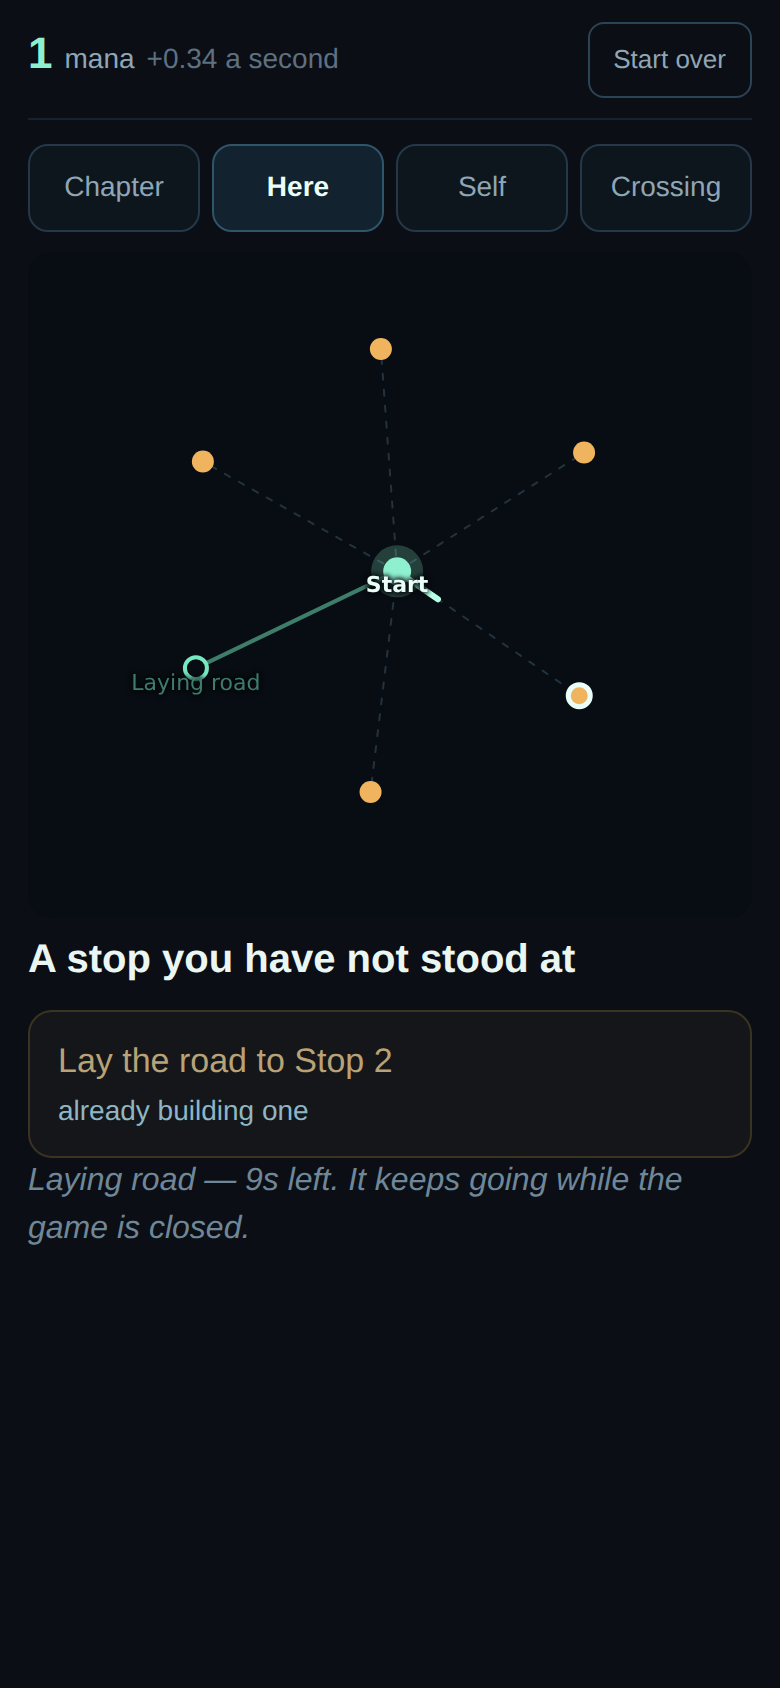
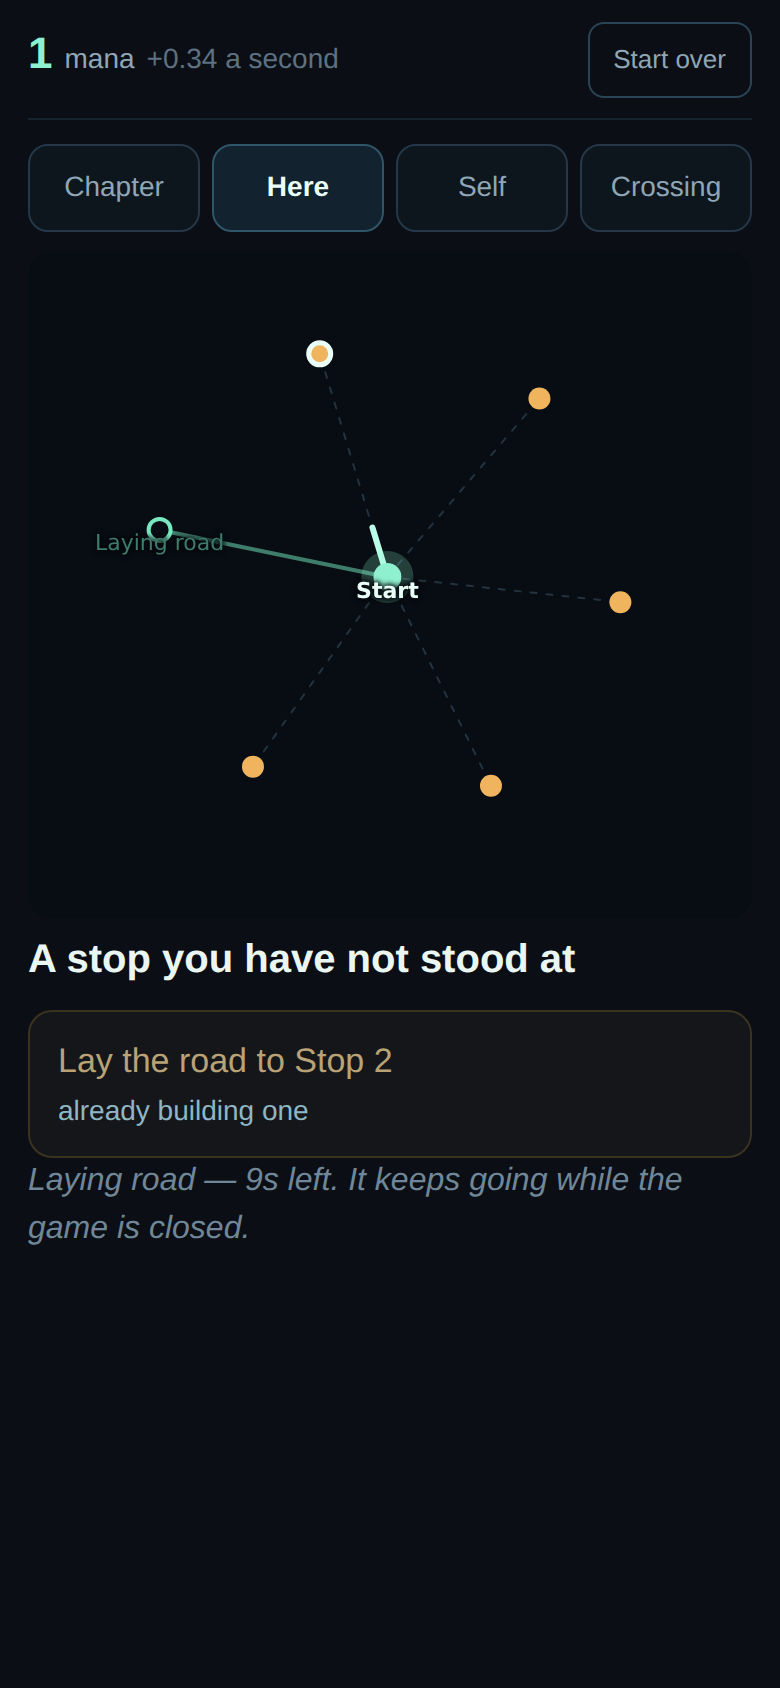
Draw the chapter where stops.ts writes it
`layout.ts` handed the chapter to d3-force like any other tab, throwing away the
coordinates `stops.ts` had just authored. Two things followed:

  THE CROSSING DID NOT READ AS A CROSSING. Five routes are authored bowing
  between a start on the left and a finish on the right. Force-solved, the
  Finish landed in the MIDDLE of the board — so the one decision a chapter
  offers was invisible in the one picture that exists to show it.

  ★ AND THE GROUND UNDER A STOP WAS NOT ITS GROUND. `terrain.ts` bakes scenery
  from each stop's authored x/y; the stops were drawn at force coordinates. A
  stop painted on wood was priced by `GOING` as water. That is the map lying,
  which is worse than the map being ugly, and it is the exact "the map is
  decoration" failure this redesign exists to end.

511 tests missed it because every one of them asked the SOLVER where things
were, and the solver was self-consistent.

The other tabs are still solved — they are filters with no geography of their
own, and `solve()` still seeds them from these positions so a room looks like
where it is.

---- WHAT IT COST ----------------------------------------------------------

Nothing, as it turns out. The authored map clears every existing guard without
adjustment:

  closest authored pair  41.1 units (Stop 16 / Stop 21) against a limit of 24
  neighbours avg 141.6   strangers avg 323.7   (edges still shorten the layout)
  start x=70, finish x=830
[…]

diff --git a/src/game/layout.ts b/src/game/layout.ts
@@ -1,4 +1,5 @@
-// WHERE EVERY NODE SITS. Solved by d3-force, run to completion, then FROZEN.
+// WHERE EVERY NODE SITS. The chapter is AUTHORED; every other tab is solved by
+// d3-force, run to completion, then FROZEN.
 //
 // ⚠ THIS REPLACES A HAND-ROLLED RELAXATION, AT THE OWNER'S REQUEST, 2026-08-01.
 // After playing: *"the graph, as far as I understand, it is now just statically
@@ -108,20 +109,36 @@ export function boxOf(spots: Placed[], pad = 40): Box {
   return { x: minX, y: minY, w: maxX - minX, h: maxY - minY };
 }
 
-// ---- THE JOURNEY ---------------------------------------------------------
-// Its shape never changes, so it is solved once at module load and is a
-// constant for the rest of the session.
-
-const journeyPos = settle(
-  STOPS.map((p) => stopId(p.id)),
-  STOPS.flatMap((p) => p.near.filter((to) => to > p.id)
-    .map((to) => ({ source: stopId(p.id), target: stopId(to) }))),
-  0x5eed,
-);
-
-export const SPOTS: readonly Spot[] = STOPS.map((p) => ({
-  id: p.id, ...journeyPos.get(stopId(p.id))!,
-}));
+// ---- THE CHAPTER ---------------------------------------------------------
+//
+// ★★ THE CHAPTER IS NOT SOLVED. IT IS AUTHORED, AND THE BOARD DRAWS IT WHERE IT
+// IS WRITTEN.
+//
+// ⚠ WHAT THIS REPLACED, AND WHY IT WAS A REAL BUG RATHER THAN AN UGLY PICTURE.
+// This used to hand the chapter to `settle()` like any other tab, throwing away
+// the coordinates `stops.ts` had just authored and re-solving from a seed. Two
+// things followed, and the second is the serious one:
+//
+//   THE CROSSING STOPPED READING AS A CROSSING. `stops.ts` bows five routes
+//   between a start on the left and a finish on the right. Force-solved, the
+//   Finish landed in the MIDDLE of the board and the five ways did not read as
+//   five ways — so the one decision a chapter offers was invisible in the one
+//   picture that exists to show it.
+//
+//   ★ AND THE GROUND UNDER A STOP WAS NOT ITS GROUND. `terrain.ts` bakes
+//   scenery from each stop's authored `x`/`y`. The stops were drawn at force
+//   coordinates. So a stop painted on wood was priced by `GOING` as water, and
+//   the map was decoration wearing the costume of information — which is the
+//   exact failure this whole redesign exists to end.
+//
+// No test caught it for a session, because every test asked the SOLVER where
+// things were and the solver was self-consistent. `test/layout.test.ts` now
+// asks `stops.ts` instead.
+//
+// The other tabs are still solved: they are filters with no geography of their
+// own, and `solve()` seeds them from these positions so a room still looks like
+// where it is.
+export const SPOTS: readonly Spot[] = STOPS.map((p) => ({ id: p.id, x: p.x, y: p.y }));
 export const SPOT = new Map(SPOTS.map((s) => [s.id, s]));
 export const VIEW: Box = boxOf(SPOTS.map((s) => ({ id: stopId(s.id), x: s.x, y: s.y })));
 

diff --git a/test/layout.test.ts b/test/layout.test.ts
@@ -28,6 +28,37 @@ describe('the map layout', () => {
     expect(worst, `closest pair ${pair} at ${worst.toFixed(1)} units`).toBeGreaterThan(24);
   });
 
+  it('★★ draws every stop where stops.ts puts it, not where a solver prefers', () => {
+    // ⚠ THE ONE THAT WAS MISSING FOR A SESSION, and the reason a bug survived
+    // 509 green tests. The chapter used to be force-solved, which threw the
+    // authored coordinates away. Every test still passed, because every test
+    // asked the SOLVER where things were and the solver agreed with itself.
+    //
+    // ★ WHAT IT ACTUALLY COSTS TO GET THIS WRONG: `terrain.ts` bakes the ground
+    // from each stop's authored x/y. If the stop is DRAWN somewhere else, the
+    // ground it sits on is not the ground `GOING` charges for — a stop painted
+    // on wood priced as water. That is the map lying, which is worse than the
+    // map being ugly, and it is what this compares against.
+    for (const p of PLACES) {
+      const at = SPOT.get(p.id)!;
+      expect(at.x, `${p.name} is drawn at x=${at.x} but authored at ${p.x}`).toBe(p.x);
+      expect(at.y, `${p.name} is drawn at y=${at.y} but authored at ${p.y}`).toBe(p.y);
+    }
+  });
+
+  it('★ and the crossing reads left to right', () => {
+    // A chapter is a crossing: you start at one end and you are trying to reach
+    // the other. If the finish is not the far side of the picture, the shape of
+    // the thing is not on screen — which is how the force-solved board drew the
+    // Finish in the middle and nobody could see what the goal was.
+    const start = SPOT.get(0)!, finish = SPOT.get(1)!;
+    expect(start.x, 'the start is not the leftmost stop')
+      .toBe(Math.min(...SPOTS.map((s) => s.x)));
+    expect(finish.x, 'the finish is not the rightmost stop')
+      .toBe(Math.max(...SPOTS.map((s) => s.x)));
+    expect(finish.x - start.x).toBeGreaterThan(400);
+  });
+
   it('fits every place inside the viewBox', () => {
     for (const s of SPOTS) {
       expect(s.x, `${s.id}`).toBeGreaterThanOrEqual(VIEW.x);

diff --git a/docs/NEXT.md b/docs/NEXT.md
@@ -20,29 +20,40 @@ mana, roads, a crossing. The word gate is green because the strings went with
 the code. `npm run play` builds a road end to end in a browser and the refusal
 "no mana reaches here" reaches the screen with 9999 mana in hand.
 
-### ★ THE FIRST ITEM OF THE NEXT SESSION — the map is not the map
+## ✅ DONE 2026-08-02 — the chapter is drawn where it is written
 
-**`layout.ts` throws the chapter's geography away, and the screenshot shows it.**
-`stops.ts` authors five routes bowing between a start on the left and a finish
-on the right; `settle()` ignores those coordinates entirely and re-solves the
-whole thing with d3-force from a seed. On screen the Finish sits in the MIDDLE
-of the board and the five ways across do not read as five ways across.
+`layout.ts` no longer force-solves the chapter. The authored positions cleared
+every existing guard untouched (closest pair 41.1 units against a limit of 24),
+so `stops.ts` needed no adjustment. Two new guards, both proven red by putting
+the solver back: the drawn position must EQUAL the authored one, and the finish
+must be the rightmost stop. The screenshot now reads start-left, finish-right,
+five ways between, with the river running along the water route `GOING` charges
+3.1 for.
 
-⚠ **And the terrain is worse than cosmetic.** `terrain.ts` bakes scenery from
-each stop's authored `x`/`y`, but the stops are drawn at force coordinates — so
-the ground a stop is painted on is not the ground that prices the road out of
-it. That is precisely the "the map is decoration" failure this whole redesign
-exists to end, and no test catches it because every test asks the solver where
-things are.
+### ★ THE FIRST ITEM OF THE NEXT SESSION — answer open question 1
 
-The fix is to use the authored positions for the chapter. It is not a one-liner:
-`test/layout.test.ts` asserts no two stops come within 24 units and that the
-solver is deterministic, and the authored bows may violate the first. Expect to
-adjust the layout in `stops.ts` until it passes rather than loosening the check.
+**What is a stop made of?** It is the first of the five open questions in
+`docs/KINGS_ROADS.md` and it is the owner's to answer, not an agent's. Every
+stop currently says `Stop 14` and reports its ground, because the 37
+machine-written places were scrapped for exactly the reason that an assistant
+answered this question once already.
 
-**Done when:** the Chapter screenshot reads left-to-right as a start, a finish
-and five distinct ways between, and a stop drawn on wood is a stop `GOING` prices
-as wood.
+Nothing else in the game can be authored until it is settled: what a stop offers,
+what threatens it, what a caravan is doing there, and what the 2d10 rolls are
+rolled against all hang off it.
+
+**Everything below is engine work that does NOT need the answer**, if the owner
+would rather it waited:
+
+- **Labels overlap on the Chapter tab** — `Stop 15`/`Stop 16` and `Stop 21`
+  overprint at 390px. The dots clear the 24-unit rule; their NAMES do not, and
+  nothing measures that. See `docs/BACKLOG.md`.
+- **The build deed offers to start what it is already building** — reads
+  "Lay the road to Stop 2 / already building one".
+- **A chapter that is crossed does nothing.** `crossed(g)` is true, the header
+  says `crossed`, and there is no second chapter to go to. "Region through
+  region" is the owner's word for the shape of the game and there is currently
+  one region.
 
 ### The five open questions, which are NOT for an agent to answer
 

diff --git a/docs/DECISIONS.md b/docs/DECISIONS.md
@@ -1787,3 +1787,4 @@ Entries above this line are long because the one-line rule did not exist yet.
 - 2026-08-02 — **Combat becomes obstacles, and the economy is haulage-first** (owner's calls on `docs/FRONTIER.md`). Something holds the line — a washout, a rockfall, a landowner who says no — and clearing it costs time and loads; the shipped duel is retired because a road crew stabbing things is the old game leaking in. Economy: haulage first (distance subtracts, every supply source has a reach radius), throughput layered after (a road has a capacity), because they compose and nothing is thrown away.
 - 2026-08-02 — **The game is King's Roads, and the loop is scrapped** (`docs/KINGS_ROADS.md`, the owner's design transcribed). A chapter is a crossing: start, finish, five or six dotted routes, build one end to end, done is done — a route-choice game rather than a network optimiser. Mana flows out along built road, which is why you cannot build from the middle and why the opening walks you back to where the king's road ends. Its curve is inverted on purpose: scarce until a region is finished, abundant and useless after, so the resource says when to leave. Vocabulary is **stops and roads** — the third turnover in a day, so the gate bans dot, node and edge together. Reviewed item by item, 19 of 20 generated ideas were scrapped, including the 37 machine-written places.
 - 2026-08-02 — **`world.ts` exports a runtime `KINDS` and derives the `Kind` type from it.** `test/ink.test.ts` held the kind list by hand, deliberately, so that adding one without styling it would fail there; when the vocabulary turned over it did the opposite, checking that four scrapped kinds had ink while two new ones had none. A hand-held copy cannot catch a rename.
+- 2026-08-02 — **The chapter is authored, not solved.** `layout.ts` handed the chapter to d3-force like any other tab, discarding the coordinates `stops.ts` had just written. Two consequences: the Finish drew in the middle so the crossing did not read as a crossing, and — the serious one — `terrain.ts` bakes ground from authored x/y while stops drew at force coordinates, so a stop painted on wood was priced as water. 509 tests missed it because every one asked the solver where things were. The other tabs are still solved; they have no geography of their own.
